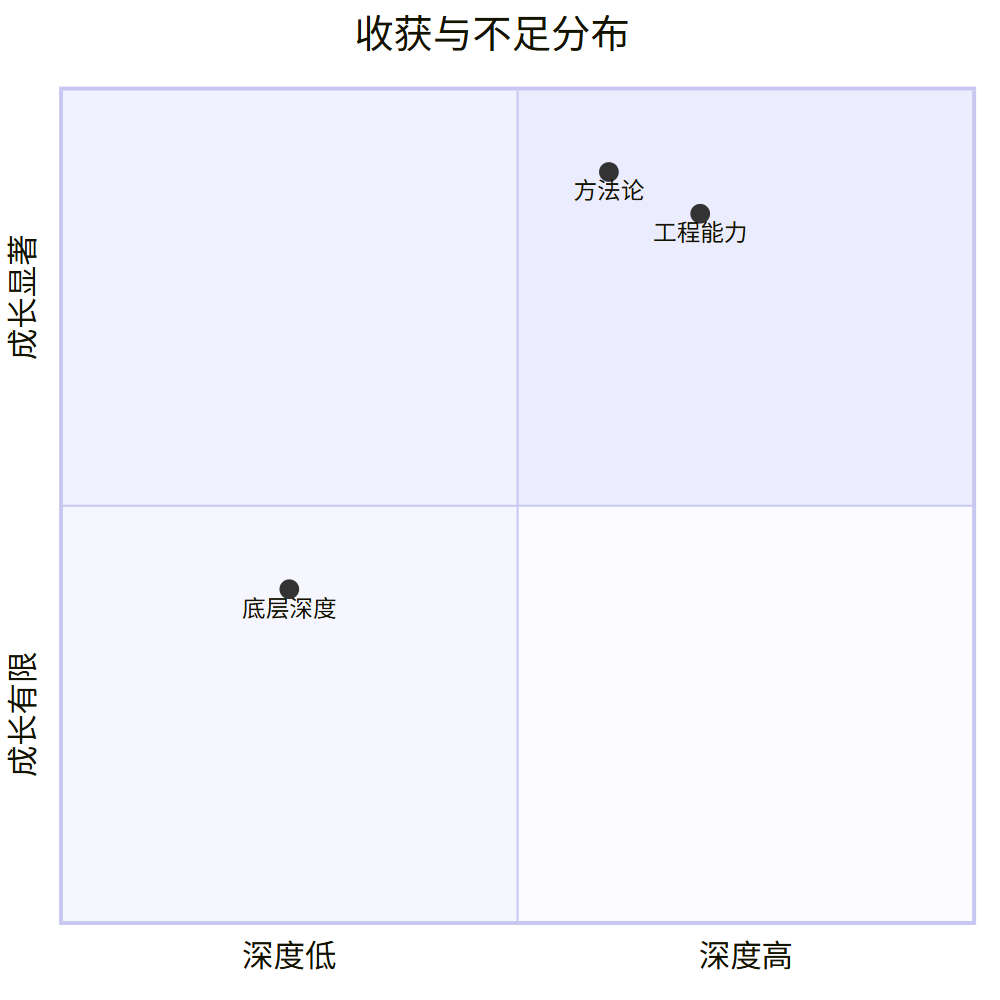
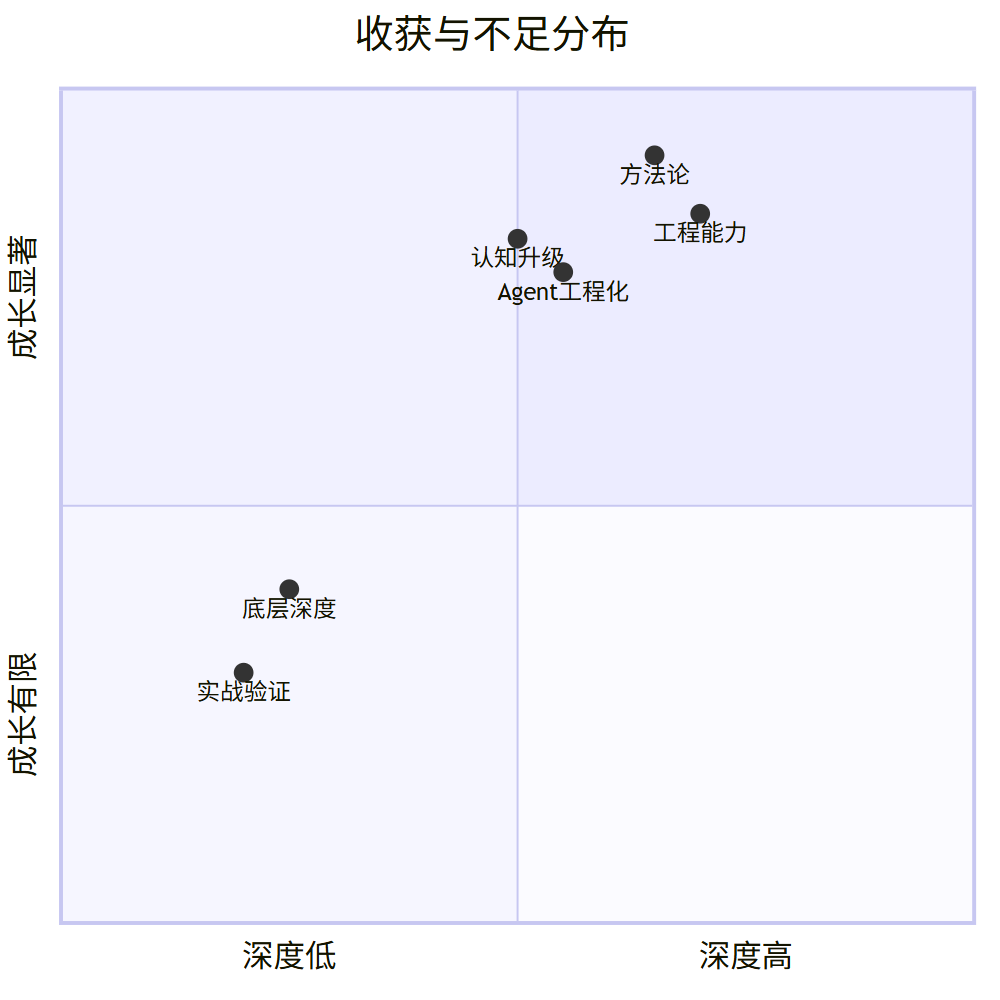
manuscript: 详化第17页收获与不足
- 收获分三类（工程能力/方法论/认知升级）各多条
- 不足分三类（底层深度/实战验证/时间分配）
- 象限图加 Agent工程化/认知升级/实战验证三点
- Notes 补 15 条方法论核心几条

Changed region(s): [[0.465, 0.217, 0.62, 0.31], [0.589, 0.124, 0.682, 0.217], [0.186, 0.651, 0.31, 0.713]]

diff --git a/manuscript.md b/manuscript.md
@@ -454,9 +454,12 @@ flowchart LR
 
 # 收获和体会/有待改进之处
 
-- 收获：方法论沉淀（vanilla 二分法、只读旁路、纯净原则审计）
-- 收获：工程化思维与代码开发能力提高
-- 不足：底层向量化内核与编译器实现了解不够
+- 收获·工程能力：C++/Java 混合栈开发，10+ 表达式提 PR 走通全链路
+- 收获·方法论：vanilla 二分法、只读旁路、纯净原则审计、声明式编排
+- 收获·认知升级：工具是行为约束，隐式交互脆弱，看起来完整≠真的能用
+- 不足·底层深度：向量化内核与 LLVM codegen 实现了解不够
+- 不足·实战验证：skill 包零真实场景验证，是最佳实践陈述
+- 不足·时间分配：8 月切 Agent 后 OmniStream 深度推进受限
 
 ```mermaid
 quadrantChart
@@ -464,15 +467,24 @@ quadrantChart
     x-axis "深度低" --> "深度高"
     y-axis "成长有限" --> "成长显著"
     "工程能力": [0.7, 0.85]
-    "方法论": [0.6, 0.9]
+    "方法论": [0.65, 0.92]
+    "Agent工程化": [0.55, 0.78]
+    "认知升级": [0.5, 0.82]
     "底层深度": [0.25, 0.4]
+    "实战验证": [0.2, 0.3]
 ```
 
-工程能力与方法论显著成长，不足在底层深度不够与 skill 包零实战验证。
+工程能力与方法论显著成长，底层深度与实战验证是主要短板。
 
 ### Notes:
 
-两个月实习在工程能力与方法论上显著成长。方法论沉淀包括vanilla对照组二分法做bug归因、只读旁路可观察性做trace、纯净原则审计清单做文档质量保障。认知升级：工具是行为约束不只声明能力，隐式交互脆弱需显式强约束，看起来完整不等于真的能用。不足在底层深度不够，对OmniOperator最底层向量化内核与编译器实现了解不够清楚。skill包最大缺口是零实战验证。8月切入Agent项目后OmniStream深度推进受限，时间分配需优化。
+两个月实习在工程能力与方法论上显著成长。工程能力：C++/Java 混合栈开发，OmniStream 10+ 表达式提 PR 走通设计→实现→审计→修复全链路，Agent 工程 4 角色流水线落地加公式原生插入。
+
+方法论沉淀 15 条，核心几条：vanilla 对照组二分法做 bug 归因（先问"这是谁的 bug"）；只读旁路可观察性（观测不能改变被观测对象行为，trace 落 workspace 不落 skill 目录）；纯净原则审计清单（溯源残留/装饰冗余/死内容/doc-impl 裂隙/语言平台残留五类 16 项）；声明式编排加动态生成代码（workflow.md 声明流程框架生成 workflow.py 执行）；降级设计（首要路径错误返回下一降级路径）；允许 agent 犯错及时提示纠正。
+
+认知升级：工具是行为约束不只声明能力（skill 是"我只能做什么"）；隐式交互是脆弱的（HITL 靠模型自觉会被跳过，显式 ask_user 才是强约束）；思维链过长等于执行风险；看起来完整不等于真的能用（skill 包零实战验证是最佳实践陈述非工作流提炼）；人工介入审计是质量闸门。
+
+不足在底层深度不够，对 OmniOperator 最底层向量化内核与 LLVM codegen 实现了解不够清楚，从能用走向吃透还需深入。skill 包最大缺口是零实战验证。8 月切入 Agent 项目后 OmniStream 深度推进受限，时间分配需优化。
 
 ---
 
